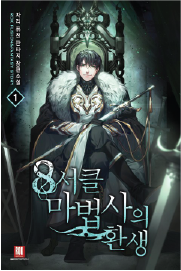
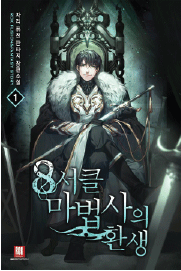
chore: resize images for web performence

Changed region(s): [[0.0276, 0.0, 1.0, 1.0]]

diff --git a/frontend/src/pages/dashboard/components/ClassAllList.jsx b/frontend/src/pages/dashboard/components/ClassAllList.jsx
@@ -77,6 +77,7 @@ function ClassAllList({ userState: { myClassList, isAdmin, userObjectId } }) {
 				myObserver.unobserve(node);
 			};
 		}
+		// eslint-disable-next-line
 	}, [node]);
 
 	useEffect(() => {
@@ -173,6 +174,7 @@ function ClassAllList({ userState: { myClassList, isAdmin, userObjectId } }) {
 			fetchAllClasses();
 		}
 		return () => (isComponentMounted = false);
+		// eslint-disable-next-line
 	}, [loading]);
 
 	useEffect(() => {
@@ -219,6 +221,7 @@ function ClassAllList({ userState: { myClassList, isAdmin, userObjectId } }) {
 			dispatch({ type: 'SET_FILTERED_LIST', payload: newList });
 			setIsChanged(false);
 		}
+		// eslint-disable-next-line
 	}, [isChanged]);
 
 	// scrollbar
@@ -235,6 +238,7 @@ function ClassAllList({ userState: { myClassList, isAdmin, userObjectId } }) {
 				setWidthInput(+initHeightRatio);
 			}
 		}
+		// eslint-disable-next-line
 	}, [loading, filteredList, height]);
 
 	// changed initial scrollbar height

diff --git a/frontend/src/pages/dashboard/MyClassRoom.jsx b/frontend/src/pages/dashboard/MyClassRoom.jsx
@@ -32,6 +32,7 @@ function MyClassRoom() {
 		};
 
 		fetchData();
+		// eslint-disable-next-line
 	}, [user]);
 
 	if (isLoading || loading) return <Spinner />;
